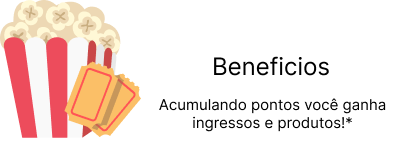
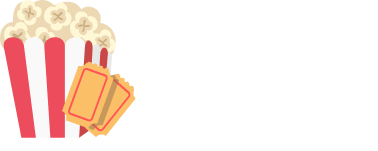
Alterações de cores

diff --git a/index.html b/index.html
@@ -25,7 +25,7 @@
           <a class="link" href="#beneficios">Beneficios</a>
           <a class="link" href="#pontuar">Como Pontuar</a>
           <a class="link" href="#regulamento">Regulamento</a>
-          <a class="linkcadastro" href="veloxtickets.com">Login/Cadastre-se</a>
+          <a class="linkcadastro" href="https://www.veloxtickets.com/Parceiro/P-cineart/Login">Login/Cadastre-se</a>
           </div>
         </nav>
       </div>
@@ -78,7 +78,7 @@
         </ul>
       </div>
 
-      <div id="regulamento" class="box-sobre limitar-box">
+      <div id="regulamento" class="box-reg limitar-box">
         <h2>Duvidas frequentes</h2>
         <p><a href="https://fidelidade.veloxtickets.com/cineart/sobre/CINEART">Clique aqui </a>e consulte o regulamento do clube de beneficios</p>
       </div>
@@ -86,19 +86,19 @@
 
     <footer>
       <div class="footerGeral">
-      <div class="contato">
-      <a href="https://www.veloxtickets.com/Parceiro/P-CINEART/Atendimento/Ajuda-e-Contato"><img class="icons" src="assets/icon_mail.png"> </a>
-      <p>Fale Conosco</p>
-      <a href="https://www.cineart.com.br/"><img class="icons" src="assets/icon_internet.png"></a>
-      <p>Ir para o site da Cineart</p>
+        <div>
+          <a href="https://www.veloxtickets.com/Parceiro/P-CINEART/Atendimento/Ajuda-e-Contato"><img class="icons" src="assets/icon_mail.png"> </a>
+          <p>Fale Conosco</p>
+        </div>
+      <div>
+          <a href="https://www.cineart.com.br/"><img class="icons" src="assets/icon_internet.png"></a>
+          <p>Ir para o site da Cineart</p>
       </div>
-      <div class="sociais">
-      <a href="https://apps.apple.com/br/app/cineart/id1540094252"><img class="icons" src="assets/icon_apple.png"></a><a href="https://play.google.com/store/search?q=cineart&c=apps"><img class="icons" src="assets/icon_google.png"> </a>
-      <p>Baixe nosso aplicativo</p>
-      <a href="https://pt-br.facebook.com/pg/cinemas.cineart/posts/"><img class="icons" src="assets/icon_facebook.png"></a> <a href="https://www.instagram.com/cineart_oficial/"><img class="icons" src="assets/icon_instagram.png"> </a> 
-      <p>Siga-nos em nossas redes sociais</p>
+      <div>
+          <a href="https://apps.apple.com/br/app/cineart/id1540094252"><img class="icons" src="assets/icon_apple.png"></a><a href="https://play.google.com/store/search?q=cineart&c=apps"><img class="icons" src="assets/icon_google.png"> </a>
+          <p>Baixe nosso aplicativo</p>
       </div>
-    </div>
+      </div>
     <p>© Copyright - {{ nomeEmpresa }}</p>
     </footer>
   </section>

diff --git a/css/estilo.css b/css/estilo.css
@@ -7,6 +7,7 @@
   body {
     margin: 0;
     padding: 0;
+    background: #0E5E98;
   }
   
   .limitar-box {
@@ -19,10 +20,7 @@
     padding: 0;
     list-style: none;
   }
-  
-  iframe {
-    width: 100%;
-  }
+
   
   /* Topo */
   header {
@@ -91,7 +89,8 @@
   
   /* Conteúdo */
   main {
-    margin-bottom: 20px;
+    background: #0E5E98;
+    padding-bottom: 20px;
   }
 
   .basico {
@@ -124,19 +123,18 @@
     padding-top: 70px;
   }
   
-  .box-sobre h2, .box-proc h2, .box-depoimentos h2 {
-    color: #3a3333;
+  .box-sobre h2, .box-proc h2, .box-depoimentos h2, .box-reg h2 {
+    color: #fff;
     font-size: 32px;
     font-weight: 500;
     font-weight: 600;
     text-transform: uppercase;
     margin-bottom: 30px;
   }
-  
-  
+
   .box-proc {
-    background-color: #0E5E98;
-    color: #fff;
+    background-color: #ffffff;
+    color: #3a3333;
     max-width: 300px;
     border-radius: 15px;
     padding: 10px;
@@ -169,13 +167,7 @@
   .box-proc-descricao {
     flex: 1 1 auto;
   }
-  
-  .box-proc-dose {
-    margin-right: 10px;
-    margin-bottom: 10px;
-    font-size: 14px;
-  }
-  
+   
   
   .lista-depoimentos{
     display: flex;
@@ -197,28 +189,45 @@
   
   .box-depoimento h3{color: #3a3333;}
   
-  
+  .box-reg{
+  text-align: center;
+  padding-top: 70px;
+  color: #fff;
+  text-decoration: none;
+}
+
+.box-reg a:visited{
+  text-decoration: none;
+  color: #fff;
+}
+
   /* Rodapé */
   footer {
     background-color:#0E5E98;
     color:#fff;
     width: 100%;
     text-align: center;
-    padding: 20px;
-    box-shadow: 0 0 6px rgb(0 0 0 / 16%);
+    box-shadow: 0 0 6px rgba(255, 255, 255, 30%);
     font-weight: 600;
+    padding: 10px;
   }
 
   .footerGeral{
     display: flex;
     flex-direction: row;
     align-items: center;
-    justify-content: space-evenly;
-    margin-top: 20px;
-    margin-bottom: 20px;
-  
-
+    justify-content:center;
+    margin: 20px;
+    padding: 20px;;
   }
+
+  .footerGeral div{
+    text-align: center;
+    padding-right: 10px;
+    padding-right: 10px;
+    margin-left: 60px;
+  }
+
   .icons{
     height: 40px;
     width: auto;
